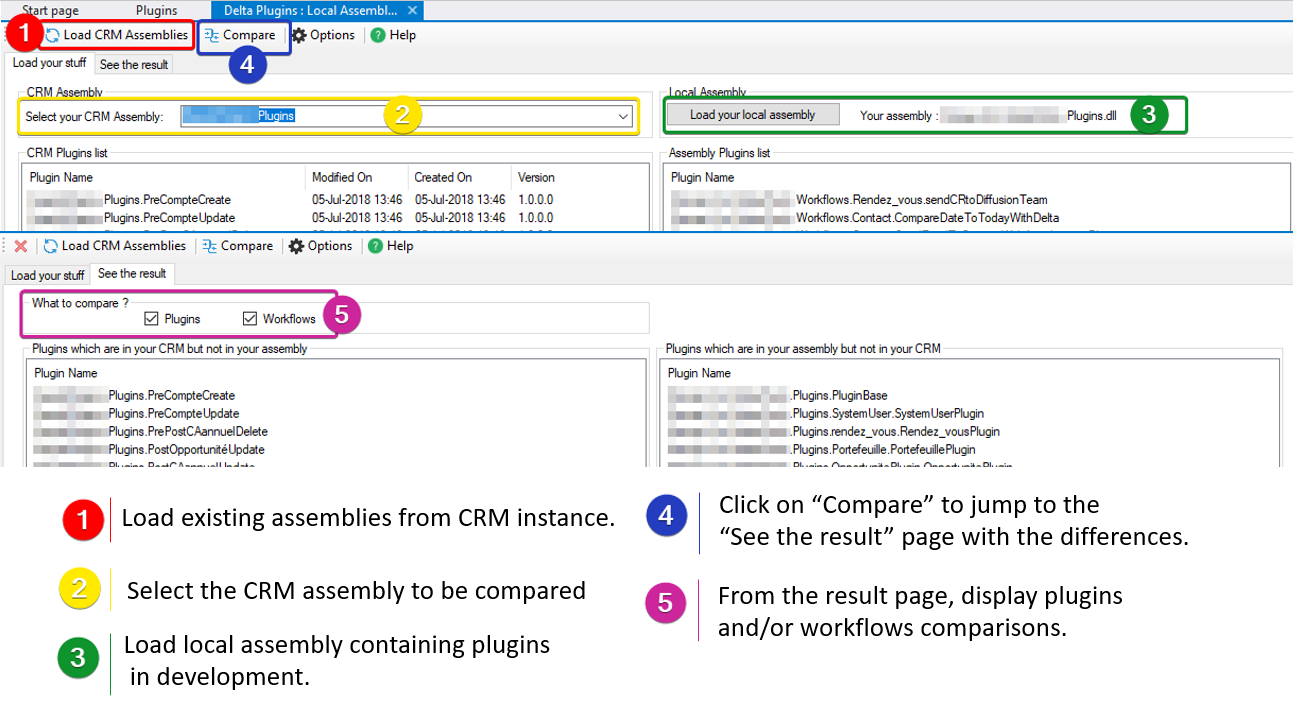
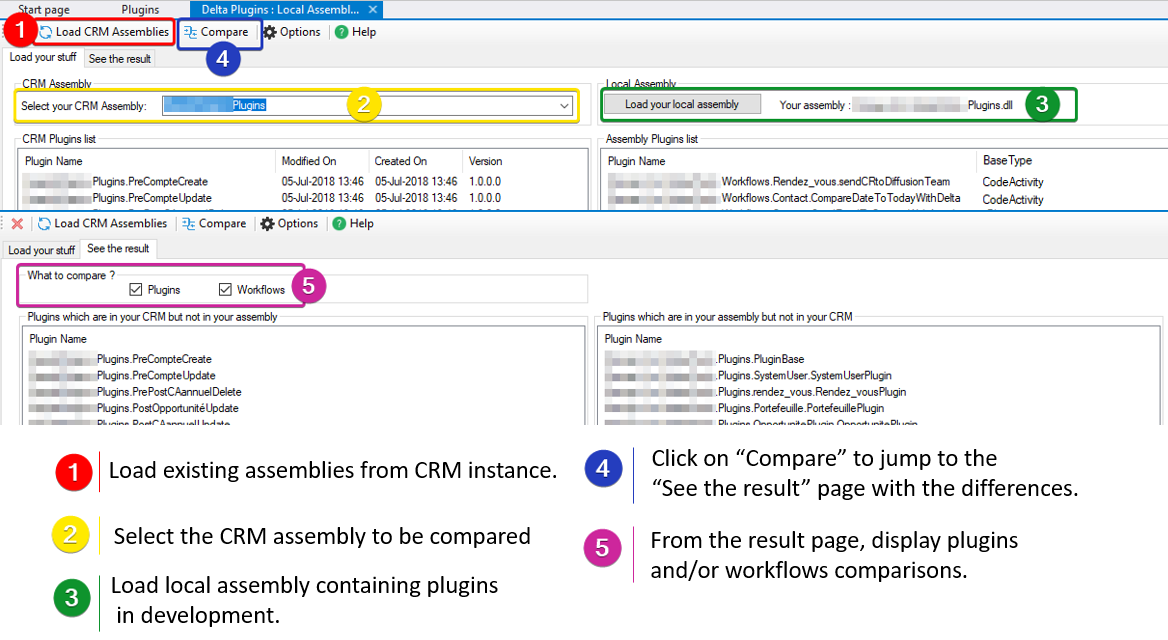
display basetype of each plugin for the local assembly

Changed region(s): [[0.0, 0.0, 1.0, 1.0], [0.4932, 0.8125, 0.863, 0.9062]]

diff --git a/DeltaAssemblyvsCrm/DeltaAssemblyvsCrm.Designer.cs b/DeltaAssemblyvsCrm/DeltaAssemblyvsCrm.Designer.cs
@@ -30,10 +30,16 @@
 		{
             System.ComponentModel.ComponentResourceManager resources = new System.ComponentModel.ComponentResourceManager(typeof(DeltaAssemblyvsCrm));
             this.toolStrip1 = new System.Windows.Forms.ToolStrip();
+            this.toolStripButtonCloseTool = new System.Windows.Forms.ToolStripButton();
             this.toolStripSeparator1 = new System.Windows.Forms.ToolStripSeparator();
+            this.toolStripButtonLoadPluginSteps = new System.Windows.Forms.ToolStripButton();
             this.toolStripSeparator2 = new System.Windows.Forms.ToolStripSeparator();
+            this.toolStripButtonCompare = new System.Windows.Forms.ToolStripButton();
             this.toolStripSeparatorCompare = new System.Windows.Forms.ToolStripSeparator();
+            this.toolStripButtonViewSolutionsSteps = new System.Windows.Forms.ToolStripButton();
+            this.toolStripButtonOptions = new System.Windows.Forms.ToolStripButton();
             this.toolStripSeparator3 = new System.Windows.Forms.ToolStripSeparator();
+            this.toolStripButtonHelp = new System.Windows.Forms.ToolStripButton();
             this.openFileDialogLoadAssembly = new System.Windows.Forms.OpenFileDialog();
             this.tabControl1 = new System.Windows.Forms.TabControl();
             this.tabPageLoad = new System.Windows.Forms.TabPage();
@@ -48,6 +54,8 @@
             this.listViewPluginTypesAssembly = new System.Windows.Forms.ListView();
             this.columnHeader1 = ((System.Windows.Forms.ColumnHeader)(new System.Windows.Forms.ColumnHeader()));
             this.groupBox5 = new System.Windows.Forms.GroupBox();
+            this.label4 = new System.Windows.Forms.Label();
+            this.comboBoxAssemblyList = new System.Windows.Forms.ComboBox();
             this.groupBox6 = new System.Windows.Forms.GroupBox();
             this.labelLoadAssembly = new System.Windows.Forms.Label();
             this.buttonLoadAssembly = new System.Windows.Forms.Button();
@@ -65,14 +73,7 @@
             this.checkBoxCompareWorkflows = new System.Windows.Forms.CheckBox();
             this.checkBoxComparePlugins = new System.Windows.Forms.CheckBox();
             this.toolStripButton1 = new System.Windows.Forms.ToolStripButton();
-            this.comboBoxAssemblyList = new System.Windows.Forms.ComboBox();
-            this.label4 = new System.Windows.Forms.Label();
-            this.toolStripButtonCloseTool = new System.Windows.Forms.ToolStripButton();
-            this.toolStripButtonLoadPluginSteps = new System.Windows.Forms.ToolStripButton();
-            this.toolStripButtonCompare = new System.Windows.Forms.ToolStripButton();
-            this.toolStripButtonViewSolutionsSteps = new System.Windows.Forms.ToolStripButton();
-            this.toolStripButtonOptions = new System.Windows.Forms.ToolStripButton();
-            this.toolStripButtonHelp = new System.Windows.Forms.ToolStripButton();
+            this.columnHeader4 = ((System.Windows.Forms.ColumnHeader)(new System.Windows.Forms.ColumnHeader()));
             this.toolStrip1.SuspendLayout();
             this.tabControl1.SuspendLayout();
             this.tabPageLoad.SuspendLayout();
@@ -107,15 +108,44 @@
             this.toolStrip1.TabIndex = 2;
             this.toolStrip1.Text = "toolStrip1";
             // 
+            // toolStripButtonCloseTool
+            // 
+            this.toolStripButtonCloseTool.DisplayStyle = System.Windows.Forms.ToolStripItemDisplayStyle.Image;
+            this.toolStripButtonCloseTool.Image = global::Carfup.XTBPlugins.Properties.Resources.close;
+            this.toolStripButtonCloseTool.ImageTransparentColor = System.Drawing.Color.Magenta;
+            this.toolStripButtonCloseTool.Name = "toolStripButtonCloseTool";
+            this.toolStripButtonCloseTool.Size = new System.Drawing.Size(23, 22);
+            this.toolStripButtonCloseTool.Text = "toolStripButton1";
+            this.toolStripButtonCloseTool.Click += new System.EventHandler(this.toolStripButtonCloseTool_Click);
+            // 
             // toolStripSeparator1
             // 
             this.toolStripSeparator1.Name = "toolStripSeparator1";
             this.toolStripSeparator1.Size = new System.Drawing.Size(6, 25);
             // 
+            // toolStripButtonLoadPluginSteps
+            // 
+            this.toolStripButtonLoadPluginSteps.Image = global::Carfup.XTBPlugins.Properties.Resources.load;
+            this.toolStripButtonLoadPluginSteps.ImageTransparentColor = System.Drawing.Color.Magenta;
+            this.toolStripButtonLoadPluginSteps.Name = "toolStripButtonLoadPluginSteps";
+            this.toolStripButtonLoadPluginSteps.Size = new System.Drawing.Size(144, 22);
+            this.toolStripButtonLoadPluginSteps.Text = "Load CRM Assemblies";
+            this.toolStripButtonLoadPluginSteps.Click += new System.EventHandler(this.toolStripButtonLoadPluginStepsClick);
+            // 
             // toolStripSeparator2
             // 
             this.toolStripSeparator2.Name = "toolStripSeparator2";
             this.toolStripSeparator2.Size = new System.Drawing.Size(6, 25);
+            // 
+            // toolStripButtonCompare
+            // 
+            this.toolStripButtonCompare.Image = global::Carfup.XTBPlugins.Properties.Resources.compare;
+            this.toolStripButtonCompare.ImageTransparentColor = System.Drawing.Color.Magenta;
+            this.toolStripButtonCompare.Name = "toolStripButtonCompare";
+            this.toolStripButtonCompare.Size = new System.Drawing.Size(76, 22);
+            this.toolStripButtonCompare.Text = "Compare";
+            this.toolStripButtonCompare.Visible = false;
+            this.toolStripButtonCompare.Click += new System.EventHandler(this.toolStripButtonCompare_Click);
             // 
             // toolStripSeparatorCompare
             // 
@@ -123,10 +153,38 @@
             this.toolStripSeparatorCompare.Size = new System.Drawing.Size(6, 25);
             this.toolStripSeparatorCompare.Visible = false;
             // 
+            // toolStripButtonViewSolutionsSteps
+            // 
+            this.toolStripButtonViewSolutionsSteps.Image = ((System.Drawing.Image)(resources.GetObject("toolStripButtonViewSolutionsSteps.Image")));
+            this.toolStripButtonViewSolutionsSteps.ImageTransparentColor = System.Drawing.Color.Magenta;
+            this.toolStripButtonViewSolutionsSteps.Name = "toolStripButtonViewSolutionsSteps";
+            this.toolStripButtonViewSolutionsSteps.Size = new System.Drawing.Size(136, 22);
+            this.toolStripButtonViewSolutionsSteps.Text = "View solution\'s steps";
+            this.toolStripButtonViewSolutionsSteps.Visible = false;
+            this.toolStripButtonViewSolutionsSteps.Click += new System.EventHandler(this.toolStripButtonViewSolutionsSteps_Click);
+            // 
+            // toolStripButtonOptions
+            // 
+            this.toolStripButtonOptions.Image = global::Carfup.XTBPlugins.Properties.Resources.gear;
+            this.toolStripButtonOptions.ImageTransparentColor = System.Drawing.Color.Magenta;
+            this.toolStripButtonOptions.Name = "toolStripButtonOptions";
+            this.toolStripButtonOptions.Size = new System.Drawing.Size(69, 22);
+            this.toolStripButtonOptions.Text = "Options";
+            this.toolStripButtonOptions.Click += new System.EventHandler(this.toolStripButtonOptions_Click);
+            // 
             // toolStripSeparator3
             // 
             this.toolStripSeparator3.Name = "toolStripSeparator3";
             this.toolStripSeparator3.Size = new System.Drawing.Size(6, 25);
+            // 
+            // toolStripButtonHelp
+            // 
+            this.toolStripButtonHelp.Image = global::Carfup.XTBPlugins.Properties.Resources.help;
+            this.toolStripButtonHelp.ImageTransparentColor = System.Drawing.Color.Magenta;
+            this.toolStripButtonHelp.Name = "toolStripButtonHelp";
+            this.toolStripButtonHelp.Size = new System.Drawing.Size(52, 22);
+            this.toolStripButtonHelp.Text = "Help";
+            this.toolStripButtonHelp.Click += new System.EventHandler(this.toolStripButton2_Click);
             // 
             // openFileDialogLoadAssembly
             // 
@@ -246,7 +304,8 @@
             // 
             this.listViewPluginTypesAssembly.AllowColumnReorder = true;
             this.listViewPluginTypesAssembly.Columns.AddRange(new System.Windows.Forms.ColumnHeader[] {
-            this.columnHeader1});
+            this.columnHeader1,
+            this.columnHeader4});
             this.listViewPluginTypesAssembly.Dock = System.Windows.Forms.DockStyle.Fill;
             this.listViewPluginTypesAssembly.Location = new System.Drawing.Point(3, 16);
             this.listViewPluginTypesAssembly.Name = "listViewPluginTypesAssembly";
@@ -273,6 +332,27 @@
             this.groupBox5.TabIndex = 14;
             this.groupBox5.TabStop = false;
             this.groupBox5.Text = "CRM Assembly";
+            // 
+            // label4
+            // 
+            this.label4.AutoSize = true;
+            this.label4.Location = new System.Drawing.Point(4, 23);
+            this.label4.Name = "label4";
+            this.label4.Size = new System.Drawing.Size(137, 13);
+            this.label4.TabIndex = 12;
+            this.label4.Text = "Select your CRM Assembly:";
+            // 
+            // comboBoxAssemblyList
+            // 
+            this.comboBoxAssemblyList.Anchor = ((System.Windows.Forms.AnchorStyles)(((System.Windows.Forms.AnchorStyles.Top | System.Windows.Forms.AnchorStyles.Left) 
+            | System.Windows.Forms.AnchorStyles.Right)));
+            this.comboBoxAssemblyList.FormattingEnabled = true;
+            this.comboBoxAssemblyList.Location = new System.Drawing.Point(153, 19);
+            this.comboBoxAssemblyList.MinimumSize = new System.Drawing.Size(40, 0);
+            this.comboBoxAssemblyList.Name = "comboBoxAssemblyList";
+            this.comboBoxAssemblyList.Size = new System.Drawing.Size(376, 21);
+            this.comboBoxAssemblyList.TabIndex = 11;
+            this.comboBoxAssemblyList.SelectedIndexChanged += new System.EventHandler(this.comboBoxAssemblyList_Changed);
             // 
             // groupBox6
             // 
@@ -471,83 +551,10 @@
             this.toolStripButton1.Name = "toolStripButton1";
             this.toolStripButton1.Size = new System.Drawing.Size(23, 23);
             // 
-            // comboBoxAssemblyList
+            // columnHeader4
             // 
-            this.comboBoxAssemblyList.Anchor = ((System.Windows.Forms.AnchorStyles)(((System.Windows.Forms.AnchorStyles.Top | System.Windows.Forms.AnchorStyles.Left) 
-            | System.Windows.Forms.AnchorStyles.Right)));
-            this.comboBoxAssemblyList.FormattingEnabled = true;
-            this.comboBoxAssemblyList.Location = new System.Drawing.Point(153, 19);
-            this.comboBoxAssemblyList.MinimumSize = new System.Drawing.Size(40, 0);
-            this.comboBoxAssemblyList.Name = "comboBoxAssemblyList";
-            this.comboBoxAssemblyList.Size = new System.Drawing.Size(376, 21);
-            this.comboBoxAssemblyList.TabIndex = 11;
-            this.comboBoxAssemblyList.SelectedIndexChanged += new System.EventHandler(this.comboBoxAssemblyList_Changed);
-            // 
-            // label4
-            // 
-            this.label4.AutoSize = true;
-            this.label4.Location = new System.Drawing.Point(4, 23);
-            this.label4.Name = "label4";
-            this.label4.Size = new System.Drawing.Size(137, 13);
-            this.label4.TabIndex = 12;
-            this.label4.Text = "Select your CRM Assembly:";
-            // 
-            // toolStripButtonCloseTool
-            // 
-            this.toolStripButtonCloseTool.DisplayStyle = System.Windows.Forms.ToolStripItemDisplayStyle.Image;
-            this.toolStripButtonCloseTool.Image = global::Carfup.XTBPlugins.Properties.Resources.close;
-            this.toolStripButtonCloseTool.ImageTransparentColor = System.Drawing.Color.Magenta;
-            this.toolStripButtonCloseTool.Name = "toolStripButtonCloseTool";
-            this.toolStripButtonCloseTool.Size = new System.Drawing.Size(23, 22);
-            this.toolStripButtonCloseTool.Text = "toolStripButton1";
-            this.toolStripButtonCloseTool.Click += new System.EventHandler(this.toolStripButtonCloseTool_Click);
-            // 
-            // toolStripButtonLoadPluginSteps
-            // 
-            this.toolStripButtonLoadPluginSteps.Image = global::Carfup.XTBPlugins.Properties.Resources.load;
-            this.toolStripButtonLoadPluginSteps.ImageTransparentColor = System.Drawing.Color.Magenta;
-            this.toolStripButtonLoadPluginSteps.Name = "toolStripButtonLoadPluginSteps";
-            this.toolStripButtonLoadPluginSteps.Size = new System.Drawing.Size(144, 22);
-            this.toolStripButtonLoadPluginSteps.Text = "Load CRM Assemblies";
-            this.toolStripButtonLoadPluginSteps.Click += new System.EventHandler(this.toolStripButtonLoadPluginStepsClick);
-            // 
-            // toolStripButtonCompare
-            // 
-            this.toolStripButtonCompare.Image = global::Carfup.XTBPlugins.Properties.Resources.compare;
-            this.toolStripButtonCompare.ImageTransparentColor = System.Drawing.Color.Magenta;
-            this.toolStripButtonCompare.Name = "toolStripButtonCompare";
-            this.toolStripButtonCompare.Size = new System.Drawing.Size(76, 22);
-            this.toolStripButtonCompare.Text = "Compare";
-            this.toolStripButtonCompare.Visible = false;
-            this.toolStripButtonCompare.Click += new System.EventHandler(this.toolStripButtonCompare_Click);
-            // 
-            // toolStripButtonViewSolutionsSteps
-            // 
-            this.toolStripButtonViewSolutionsSteps.Image = ((System.Drawing.Image)(resources.GetObject("toolStripButtonViewSolutionsSteps.Image")));
-            this.toolStripButtonViewSolutionsSteps.ImageTransparentColor = System.Drawing.Color.Magenta;
-            this.toolStripButtonViewSolutionsSteps.Name = "toolStripButtonViewSolutionsSteps";
-            this.toolStripButtonViewSolutionsSteps.Size = new System.Drawing.Size(136, 22);
-            this.toolStripButtonViewSolutionsSteps.Text = "View solution\'s steps";
-            this.toolStripButtonViewSolutionsSteps.Visible = false;
-            this.toolStripButtonViewSolutionsSteps.Click += new System.EventHandler(this.toolStripButtonViewSolutionsSteps_Click);
-            // 
-            // toolStripButtonOptions
-            // 
-            this.toolStripButtonOptions.Image = global::Carfup.XTBPlugins.Properties.Resources.gear;
-            this.toolStripButtonOptions.ImageTransparentColor = System.Drawing.Color.Magenta;
-            this.toolStripButtonOptions.Name = "toolStripButtonOptions";
-            this.toolStripButtonOptions.Size = new System.Drawing.Size(69, 22);
-            this.toolStripButtonOptions.Text = "Options";
-            this.toolStripButtonOptions.Click += new System.EventHandler(this.toolStripButtonOptions_Click);
-            // 
-            // toolStripButtonHelp
-            // 
-            this.toolStripButtonHelp.Image = global::Carfup.XTBPlugins.Properties.Resources.help;
-            this.toolStripButtonHelp.ImageTransparentColor = System.Drawing.Color.Magenta;
-            this.toolStripButtonHelp.Name = "toolStripButtonHelp";
-            this.toolStripButtonHelp.Size = new System.Drawing.Size(52, 22);
-            this.toolStripButtonHelp.Text = "Help";
-            this.toolStripButtonHelp.Click += new System.EventHandler(this.toolStripButton2_Click);
+            this.columnHeader4.Text = "BaseType";
+            this.columnHeader4.Width = 120;
             // 
             // DeltaAssemblyvsCrm
             // 
@@ -631,5 +638,6 @@
         private System.Windows.Forms.ToolStripSeparator toolStripSeparatorCompare;
         private System.Windows.Forms.Label label4;
         private System.Windows.Forms.ComboBox comboBoxAssemblyList;
+        private System.Windows.Forms.ColumnHeader columnHeader4;
     }
 }

diff --git a/DeltaAssemblyvsCrm/DeltaAssemblyvsCrm.cs b/DeltaAssemblyvsCrm/DeltaAssemblyvsCrm.cs
@@ -156,8 +156,7 @@ namespace Carfup.XTBPlugins.DeltaAssemblyvsCrm
                         .Where(
                             t => t.FullName != null && (!(t.FullName.Contains("<>c")) && // standards classes
                                 (
-                                    t.GetInterfaces().Contains(typeof(IPlugin)) || 
-                                    t.GetInterfaces().Contains(typeof(IPluginExecutionContext)) || // plugins
+                                    t.GetInterfaces().Contains(typeof(IPlugin)) || t.GetInterfaces().Contains(typeof(IPluginExecutionContext)) || // plugins
                                     (t.BaseType != null && t.BaseType.Name == "CodeActivity") // workflows
                                 ))
                         ).ToList();
@@ -173,12 +172,11 @@ namespace Carfup.XTBPlugins.DeltaAssemblyvsCrm
 
 					    if(listOfPluginsTypeInAssembly != null && listOfPluginsTypeInAssembly.Any())
                         {
-                            foreach (var plugin in listOfPluginsTypeInAssembly.Select(t => t.FullName).ToArray())
+                            foreach (var plugin in listOfPluginsTypeInAssembly)
                             {
-                                var item = new ListViewItem(plugin)
-                                {
-                                    Tag = plugin
-                                };
+                                var item = new ListViewItem(plugin.FullName);
+                                item.SubItems.Add((plugin.BaseType != null ? plugin.BaseType.Name : "Unknown"));
+                                item.Tag = plugin.FullName;
 
                                 listViewPluginTypesAssembly.Items.Add((ListViewItem)item.Clone());
                             }
@@ -186,7 +184,6 @@ namespace Carfup.XTBPlugins.DeltaAssemblyvsCrm
                             listViewPluginTypesAssembly.AutoResizeColumns(ColumnHeaderAutoResizeStyle.ColumnContent);
                             listViewPluginTypesAssembly.AutoResizeColumns(ColumnHeaderAutoResizeStyle.HeaderSize);
                         }
-                       //     listBoxPluginTypesAssembly.Items.AddRange(listOfPluginsTypeInAssembly.Select(t => t.FullName).ToArray());
                         else
                         {
                             MessageBox.Show(this, "No plugins found is your assembly!\n\nPlease select an assembly related to your CRM Plugins.", "Information", MessageBoxButtons.OK, MessageBoxIcon.Warning);
